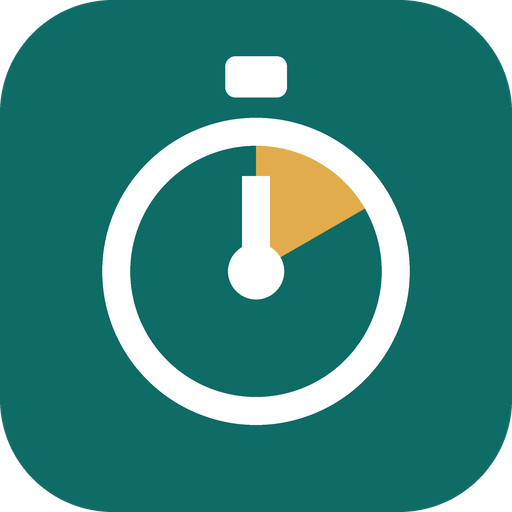
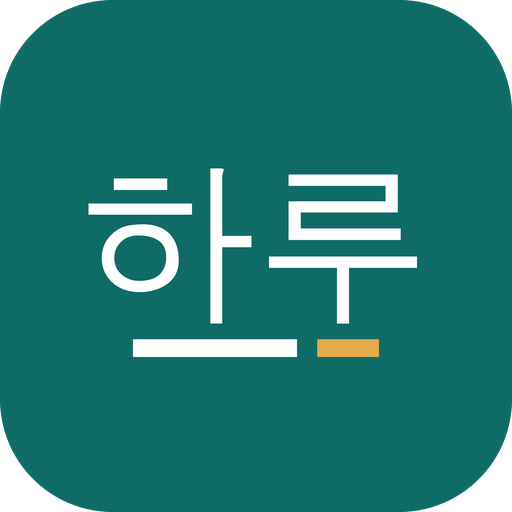
앱 아이콘을 '하루' 글자 디자인으로 변경
Claude-Session: https://claude.ai/code/session_014QXbkgCxpZCtZEwwiYudw9

Changed region(s): [[0.1562, 0.0938, 0.8125, 0.8438]]

diff --git a/sw.js b/sw.js
@@ -1,5 +1,5 @@
 // 오프라인에서도 앱 화면이 열리도록 앱 파일만 보관합니다. GitHub API 요청은 보관하지 않습니다.
-const CACHE = "daylog-v1";
+const CACHE = "daylog-v2";
 const FILES = ["./", "index.html", "app.js", "manifest.webmanifest", "icons/icon-192.png", "icons/icon-512.png"];
 
 self.addEventListener("install", e => {
